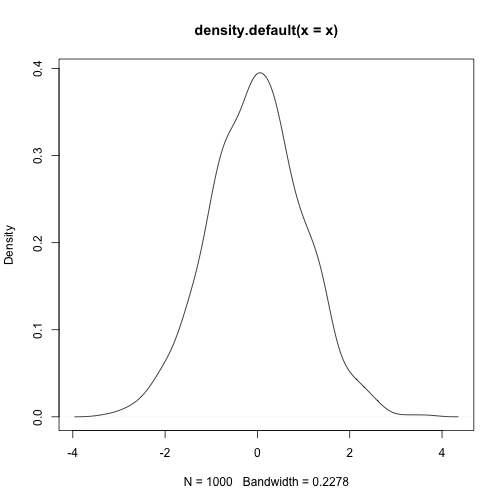
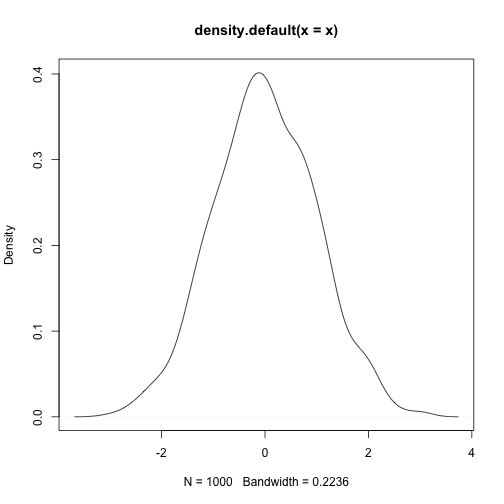
added supplemental files to complete the lesson draft

diff --git a/README.md b/README.md
@@ -2,53 +2,34 @@
 
 ## Overview and learning objectives
 
-Students will work through activities highlighting the motivation for
-and value of [literate programming] as a concept, and as its
-implementation in Rmarkdown. Through this, students will get introduced to
-the concepts of executable documentation and automation. Students will
-also learn about best practices for structuring spreadsheet-type data
-files, and the importance of documenting all changes one makes to
-data. Finally, students will be introduced to combining all these
-ideas to create automated, executable, and self-documenting data quality
-ensurance and control reports.
+Students will work through activities highlighting the motivation for and value of [literate programming] as a concept, and as its implementation in `RMarkdown`. Through this, students will get introduced to the concepts of executable documentation and automation. Students will also learn about best practices for structuring spreadsheet-type data files, and the importance of documenting all changes one makes to data. Finally, students will be introduced to combining all these ideas to create automated, executable, and self-documenting data quality insurance and control reports.
 
-At the begining of the session, students should
-- be familiar with Rstudio: Rstudio layout, running R commands, and
-  running knitr.
+At the beginning of the session, students should
+- be familiar with `Rstudio`: `Rstudio` layout, running `R` commands, and running `knitr`.
 
 At the end of the session students will be able to
 
-- Distinguish between a spreadsheet formatted properly for later
-  analysis and one formatted improperly.
+- Distinguish between a spreadsheet formatted properly for later analysis and one formatted improperly.
 - Recognize and correct common data entry errors.
-- Describe the concept of 'raw data', and its implications for
-  reproducible and sound data management.
-- Apply the concept of literate programming to produce executable
-  documentation of data management and analysis.
+- Describe the concept of 'raw data', and its implications for reproducible and sound data management.
+- Apply the concept of literate programming to produce executable documentation of data management and analysis.
 
 ## Overview and recap
 
-* Recap about markdown, Rmarkdown, `knitr`, and virtues of literate
-  programming from the demonstrations in the Intro lesson:
+- Recap about markdown, `RMarkdown`, `knitr`, and virtues of literate programming from the demonstrations in the Intro lesson:
   [slides](slides/lit-prog-slides)
 
 ### Activity - Using R and Rmarkdown to clean and plot data
 
-Objective: through hands-on interaction and modification, develop
-familiarity with Rmarkdown and _knitting_ the output.
+Objective: through hands-on interaction and modification, develop familiarity with `RMarkdown` and *knitting* the output.
 
-Students "knit" and modify. Using
-[countryPick4.Rmd](files/lit-prog/countryPick4.Rmd) as a template,
-students learn how to import data, filter to one country, make a plot,
-write it to file, and comment data choices.  Then the activity will
-illustrate what happens when you knit:
+Students `knit` and modify. Using
+[countryPick4.Rmd](files/lit-prog/countryPick4.Rmd) as a template, students learn how to import data, filter to one country, make a plot, write it to file, and comment data choices.  Then the activity will illustrate what happens when you `knit`:
 - Preview/Knit HTML, note what sorts of outputs are left behind.
 - Discuss input and output files.
-- Which files can we delete and reproduce? Which files are inputs,
-  outputs, converters of inputs to outputs?
+- Which files can we delete and reproduce? Which files are inputs, outputs, converters of inputs to outputs?
 
-This section is meant for students to explore the power of writing
-reports in R.
+This section is meant for students to explore the power of writing reports in `R`.
 
 ## Documenting data modifications
 
@@ -56,23 +37,19 @@ Lesson: [01-programatic-modification](01-documenting-data-modification.md)
 
 ### Activity - Cleaning up data in Excel
 
-Students identify poor and good data formatting practices, and will
-learn the importance of documenting modifications. This will lead to
-making modifications in a self-documenting and executable way.
+Students identify poor and good data formatting practices, and will learn the importance of documenting modifications. This will lead to making modifications in a self-documenting and executable way.
 
 ### Applying literate programming to produce executable documentation
 
-* Lesson: [02-literate-programming](02-literate-programming.md)
+- Lesson: [02-literate-programming](02-literate-programming.md)
 
 ## Resources and useful links
 
 ### Relevant scientific papers
 
 - EP White, E Baldridge, ZT Brym, KJ Locey, DJ McGlinn, SR
-  Supp (2013) "Nine simple ways to make it easier to (re)use your
-  data." Ideas in Ecology and Evolution 6(2):
-  1–10, 2013. doi:[10.4033/iee.2013.6b.6.f] _(in particular the
-  section "Use standard table formats")_
+  Supp (2013) "Nine simple ways to make it easier to (re)use your data." Ideas in Ecology and Evolution 6(2):
+  1–10, 2013. doi:[10.4033/iee.2013.6b.6.f] *(in particular the   section "Use standard table formats")*
 
 ### Best practices for spreadsheets
 
@@ -87,15 +64,13 @@ Please post feedback and issues with the lesson on the repository's issue tracke
 ## License and Attribution
 
 - [Gapminder data](http://www.gapminder.org/data/)
-- Processed and subset (population size, life expectancy, GDP per
-  capita; only every 5 years only starting 1952, only complete records)
-  [Gapminder data as R package](https://github.com/jennybc/gapminder). The [data-raw](https://github.com/jennybc/gapminder/tree/master/data-raw) sub-directory reveals the journey from Gapminder.org's Excel workbooks to increasingly clean and tidy data.
-- clean dataset can be located in R in the following way (after
-      installing the package):
-
-        ```R
-        pathToTsv <- system.file("gapminder.tsv", package = "gapminder")
-        ```
+- Processed and subset (population size, life expectancy, GDP per capita; only every 5 years only starting 1952, only complete records)
+  [Gapminder data as `R`  package](https://github.com/jennybc/gapminder). The [data-raw](https://github.com/jennybc/gapminder/tree/master/data-raw) sub-directory reveals the journey from Gapminder.org's Excel workbooks to increasingly clean and tidy data.
+- clean dataset can be located in R in the following way (after installing the package):
+~~~
+pathToTsv <- system.file("gapminder.tsv", package = "gapminder")
+~~~
+{: .r}
 
 [@hlapp]: http://github.com/hlapp
 [1. Reproducible Science Curriculum Hackathon]: https://github.com/Reproducible-Science-Curriculum/Reproducible-Science-Hackathon-Dec-08-2014

diff --git a/_episodes/02-literate-programming.md b/_episodes/02-literate-programming.md
@@ -157,11 +157,11 @@ head(x)
 ```
 
 ```
-## [1]  2.09243473 -2.09679159 -2.83122013  0.93894639 -0.04567465  0.34814887
+## [1]  1.1484081 -0.4728421 -1.3021346  0.6378730  0.1637764 -0.9265482
 ```
 
 
-`knitr` offers a lot of control over representing different types of output. We can also have inline `R` expressions computed on the fly. The mean $\bar{x} = \frac{1}{n} \sum_{i=1}^{n} x_{i}$ of the 1000 random variates we generated is 0.023. This figure is computed on-the-fly as well. No more copy-paste, including for figures:
+`knitr` offers a lot of control over representing different types of output. We can also have inline `R` expressions computed on the fly. The mean $\bar{x} = \frac{1}{n} \sum_{i=1}^{n} x_{i}$ of the 1000 random variates we generated is -0.047. This figure is computed on-the-fly as well. No more copy-paste, including for figures:
 
 
 ```r
@@ -179,11 +179,11 @@ head(x)
 ```
 
 ```
-## [1]  0.3708563 -0.5090251 -0.8734715 -1.4969929  1.6407819 -1.0947855
+## [1] -0.4976453 -1.9193406  0.6402454 -0.5109245 -0.6097928  0.9545458
 ```
 
 
-`knitr` offers a lot of control over representing different types of output. We can also have inline R expressions computed on the fly. The mean $\bar{x} = \frac{1}{n} \sum_{i=1}^{n} x_{i}$ of the 1000 random variates we generated is 0.005. This figure is computed on-the-fly as well. No more copy-paste, including for figures:
+`knitr` offers a lot of control over representing different types of output. We can also have inline R expressions computed on the fly. The mean $\bar{x} = \frac{1}{n} \sum_{i=1}^{n} x_{i}$ of the 1000 random variates we generated is -0.022. This figure is computed on-the-fly as well. No more copy-paste, including for figures:
 
 
 ```r
@@ -204,10 +204,10 @@ head(x)
 ```
 
 ```
-## [1]  1.2307257 -1.8706574  0.3957057 -0.2791362 -0.1859763  0.3200734
+## [1]  0.7195432 -0.6621163 -1.1996448 -1.2400046 -0.0340013  0.9846131
 ```
 
-`knitr` offers a lot of control over representing different types of output. We can also have inline R expressions computed on the fly. The mean $\bar{x} = \frac{1}{n} \sum_{i=1}^{n} x_{i}$ of the 1000 random variates we generated is -0.021. This figure is computed on-the-fly as well. No more copy-paste, including for figures:
+`knitr` offers a lot of control over representing different types of output. We can also have inline R expressions computed on the fly. The mean $\bar{x} = \frac{1}{n} \sum_{i=1}^{n} x_{i}$ of the 1000 random variates we generated is 0. This figure is computed on-the-fly as well. No more copy-paste, including for figures:
 
 
 ```r
@@ -217,7 +217,7 @@ plot(density(x))
 <img src="figure/sec_8-1.png" title="plot of chunk sec_8" alt="plot of chunk sec_8" style="display: block; margin: auto;" />
 
 
-This is an `RMarkdown` document. ```{r} x <- rnorm(1000) head(x) ``` `knitr` offers a lot of control over representing different types of output. We can also have inline R expressions computed on the fly. The mean $\bar{x} = \frac{1}{n} \sum_{i=1}^{n} x_{i}$ of the 1000 random variates we generated is -0.021. No more copy-paste, including for figures: ```{r} plot(density(x)) ```
+This is an `RMarkdown` document. ```{r} x <- rnorm(1000) head(x) ``` `knitr` offers a lot of control over representing different types of output. We can also have inline R expressions computed on the fly. The mean $\bar{x} = \frac{1}{n} \sum_{i=1}^{n} x_{i}$ of the 1000 random variates we generated is 0. No more copy-paste, including for figures: ```{r} plot(density(x)) ```
 
 
 ## Rendering can be automated is thus repeatable

diff --git a/setup.md b/setup.md
@@ -3,4 +3,25 @@ layout: page
 title: Setup
 permalink: /setup/
 ---
-FIXME
+## Requirements
+Data Carpentry's teaching is hands-on, so participants are encouraged to use their own computers to insure the proper setup of tools for an efficient workflow. **These lessons assume no prior knowledge of the skills or tools**, but working through this lesson requires working copies of the software described below.
+h this lesson requires working copies of the software described below.
+
+To most effectively use these materials, please make sure to **install everything prior to the start of the workshop**. If you encounter any install issues, please seek assistance before the workshop begins.
+
+This lesson requires that you have recent installations of `R`, `RStudio` and certain packages installed on your machine:
+
+- [Download `R`](https://cran.r-project.org/)
+- [Download `RStudio`](https://www.rstudio.com/)
+
+Some of the exercises may not work if you are using older installations of the programs or packages.
+
+Once you have downloaded and installed `R` and `RStudio`, launch `RStudio` and install a package.
+
+~~~
+install.packages("tidyverse")
+~~~
+{: .r}
+
+The raw data files we will be working with can be downloaded here:
+### Need to .zip the files to follow the presented directory structure

diff --git a/reference.md b/reference.md
@@ -4,5 +4,4 @@ permalink: /reference/
 ---
 
 ## Glossary
-
-FIXME
+- [Literate programming](https://en.wikipedia.org/wiki/Literate_programming) - is an approach to programming in which a program is given as an explanation of the program logic in a natural language and is interspersed with snippets of macros and traditional source code.

diff --git a/index.md b/index.md
@@ -2,9 +2,11 @@
 layout: lesson
 root: .
 ---
-FIXME: home page introduction
+This is the lesson on literate programming for reproducible research with `R`.
 
 > ## Prerequisites
+> You will need to install
+> - `R`
+> - `RStudio`
 >
-> FIXME
 {: .prereq}

diff --git a/_extras/discuss.md b/_extras/discuss.md
@@ -3,4 +3,4 @@ layout: page
 title: Discussion
 permalink: /discuss/
 ---
-FIXME
+Discussion for this workshop should take place on the Etherpad set up specifically for your workshop. Check the workshop's website for a link to the etherpad.

diff --git a/_extras/guide.md b/_extras/guide.md
@@ -3,4 +3,6 @@ layout: page
 title: "Instructor Notes"
 permalink: /guide/
 ---
-FIXME
+Instructor notes:
+  - [Notes 1](../litprog-01-instr-notes.md)
+  - [Notes 2](../litprog-02-instr-notes.md)
